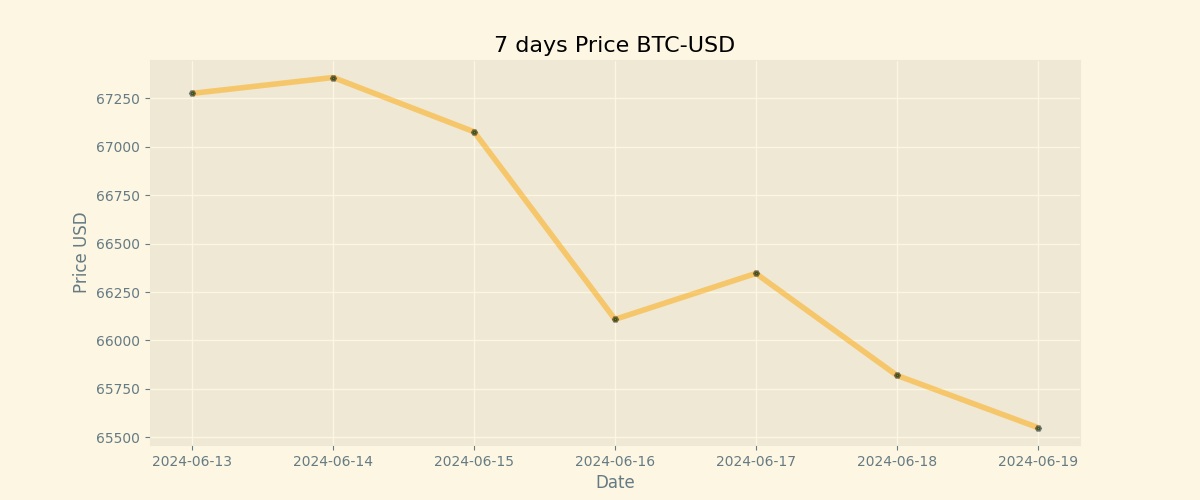
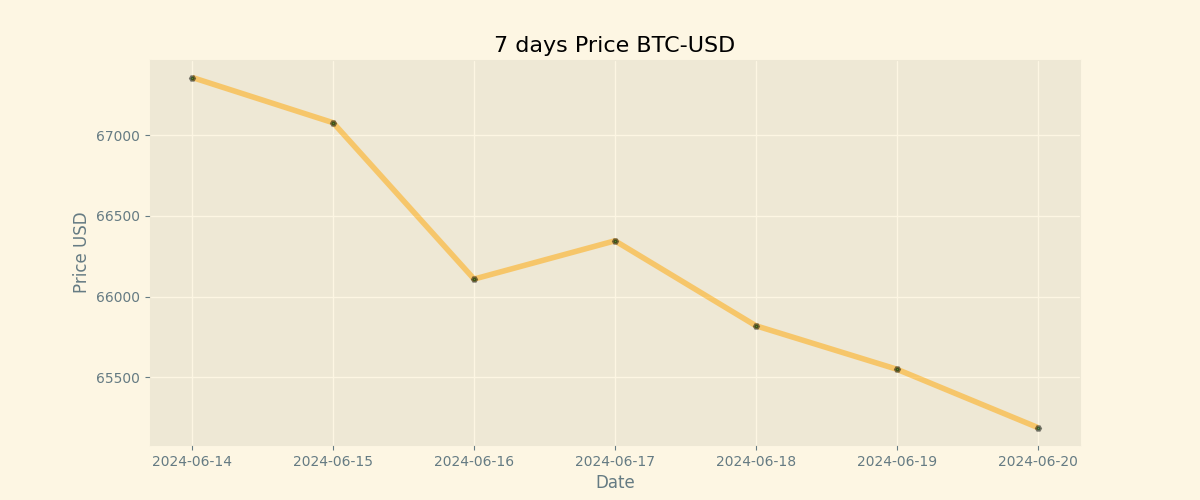
Duty Updates 2024-06-20

diff --git a/README.md b/README.md
@@ -9,8 +9,8 @@
 
 | Currency | Price           |
 | -------- | --------------- |
-| **BTC**  | **$ 65551.0** |
-| **ETH**  | **$ 3456.46** |
+| **BTC**  | **$ 65190.18** |
+| **ETH**  | **$ 3560.9** |
 
 ## BTC chart
 
